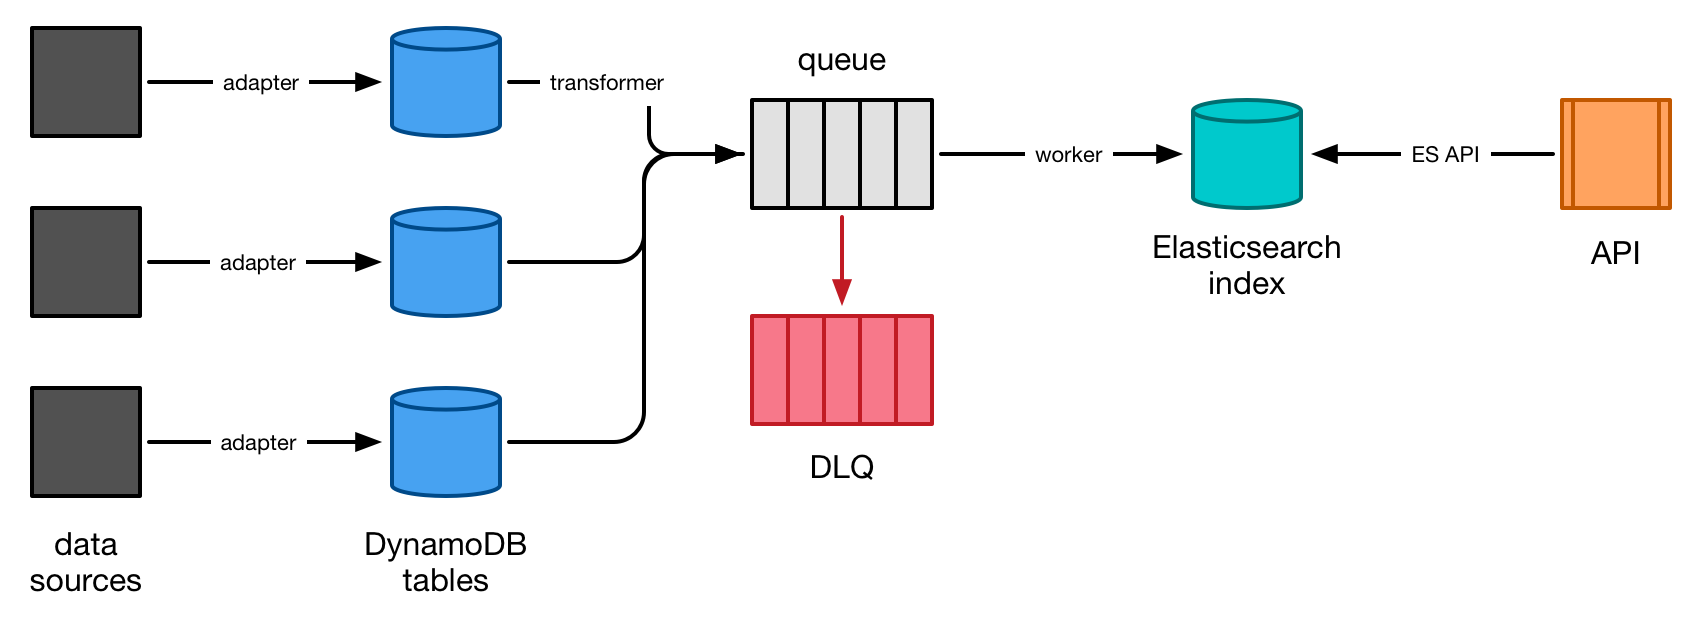
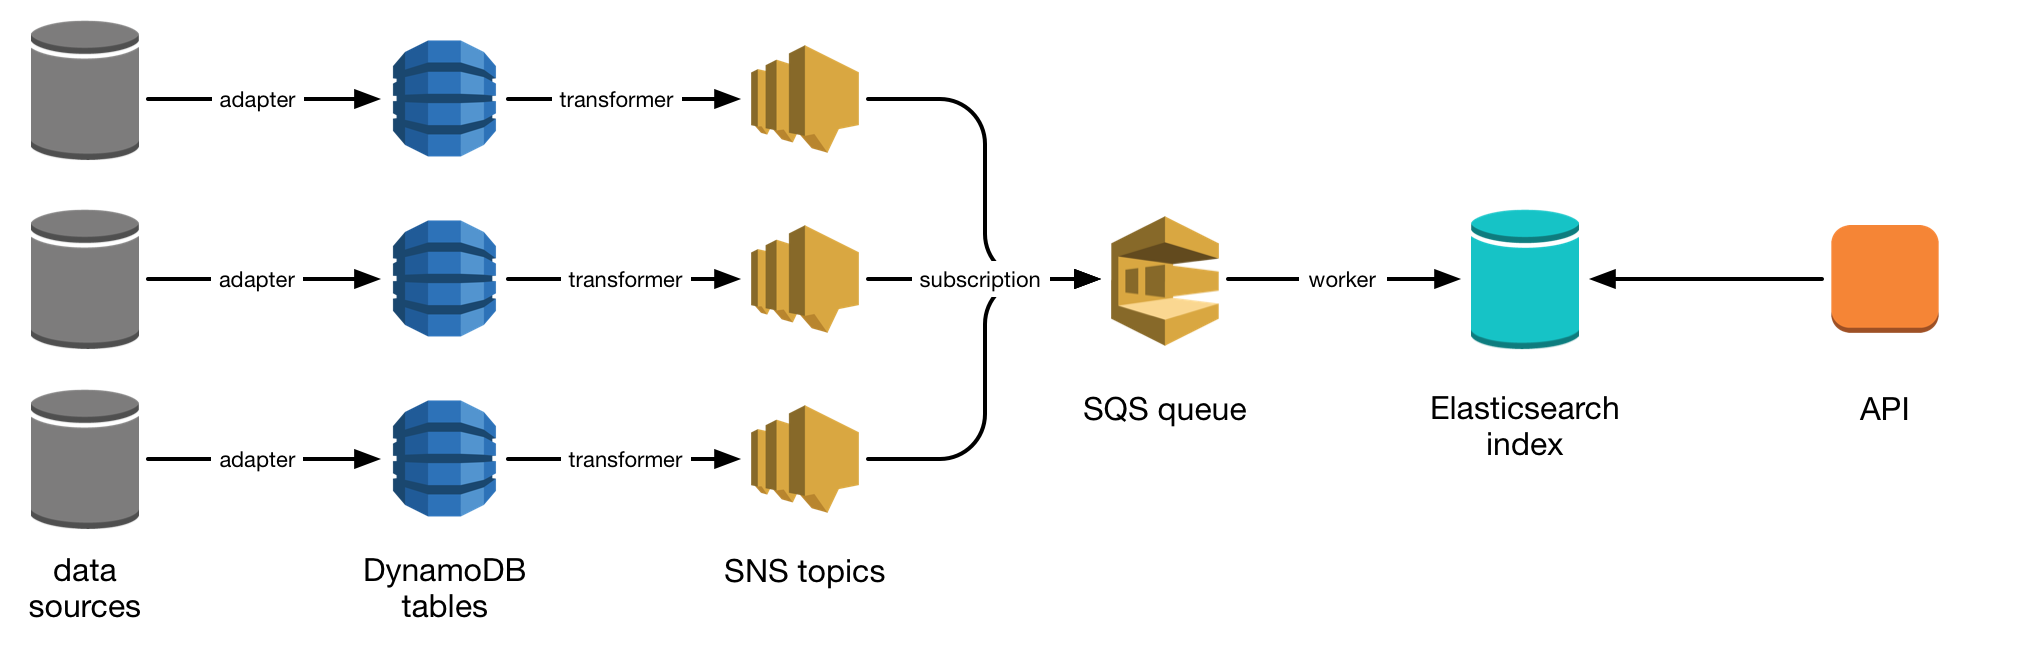
Add SNS/SQS to the architecture diagram

diff --git a/calm-ingest/README.rst b/calm-ingest/README.rst
@@ -15,13 +15,11 @@ We have a number of data sources (initially just Calm, but we'll add others).
 An adapter ingests all the records into a per-source DynamoDB table, treating
 Dynamo as a mirror of the original source.
 
-A transformer runs on the other side of Dynamo, and parses out the fields we
-want to expose on Elasticsearch.  It pushes JSON objects onto a queue (or sends
-records to a DLQ if they cannot be parsed), which is read by a worker to ingest
-those fields into our Elasticsearch index.  All records are stored in the same
-Elasticsearch index, regardless of source.
-
-Our API then queries Elasticsearch directly.
+A transformer runs on the other side of each Dynamo table, and parses out the
+fields we want to expose on Elasticsearch.  These parsed records are sent to
+per-source SNS topics, which are in turn coalesced into a single SQS queue.
+A worker pulls entries from the queue into the Elasticsearch index, which is
+then queried by our API.
 
 Installation
 ************
